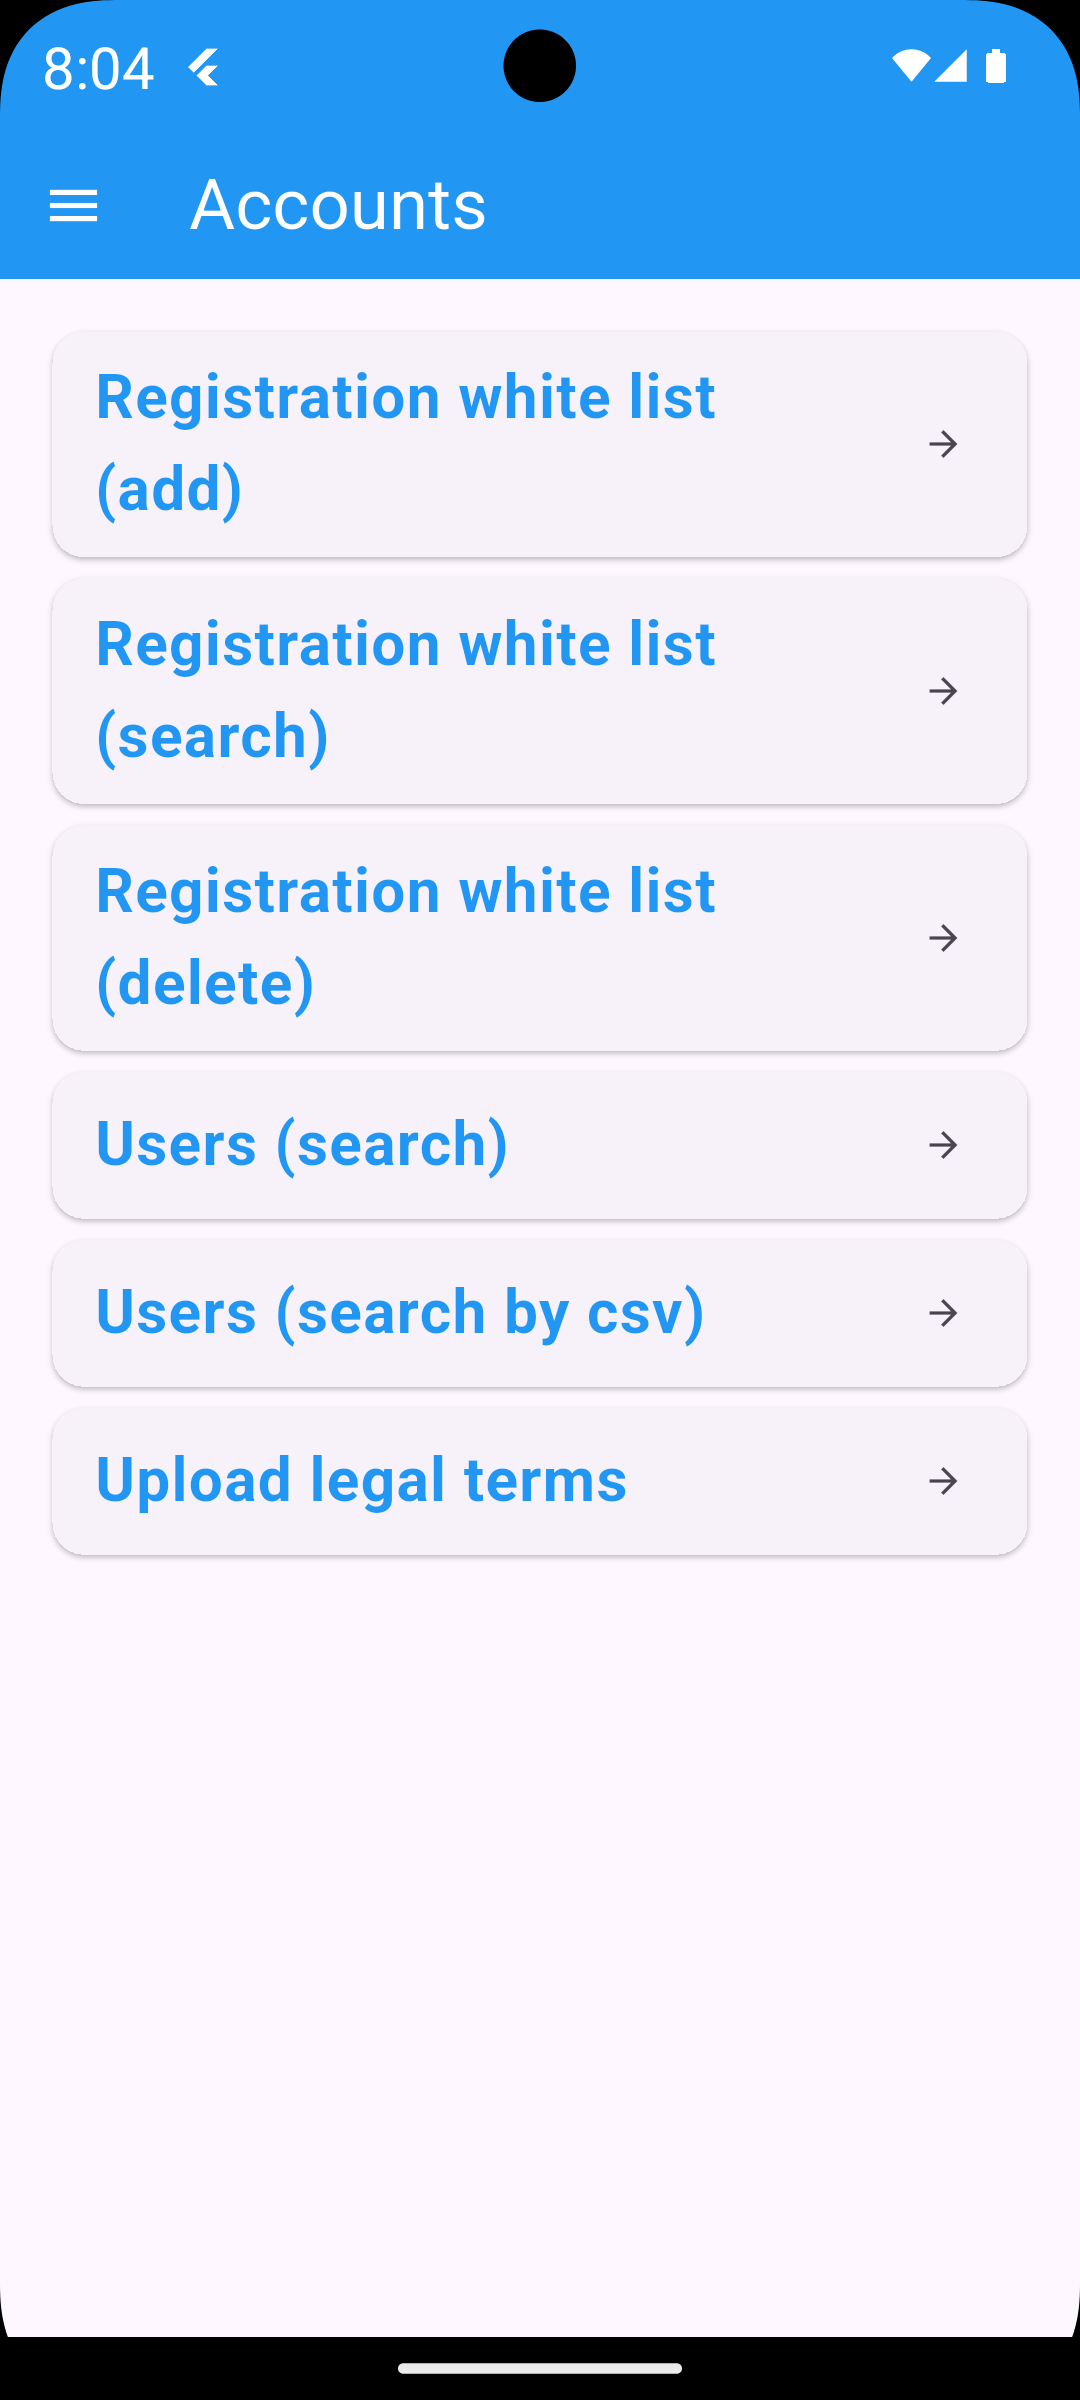
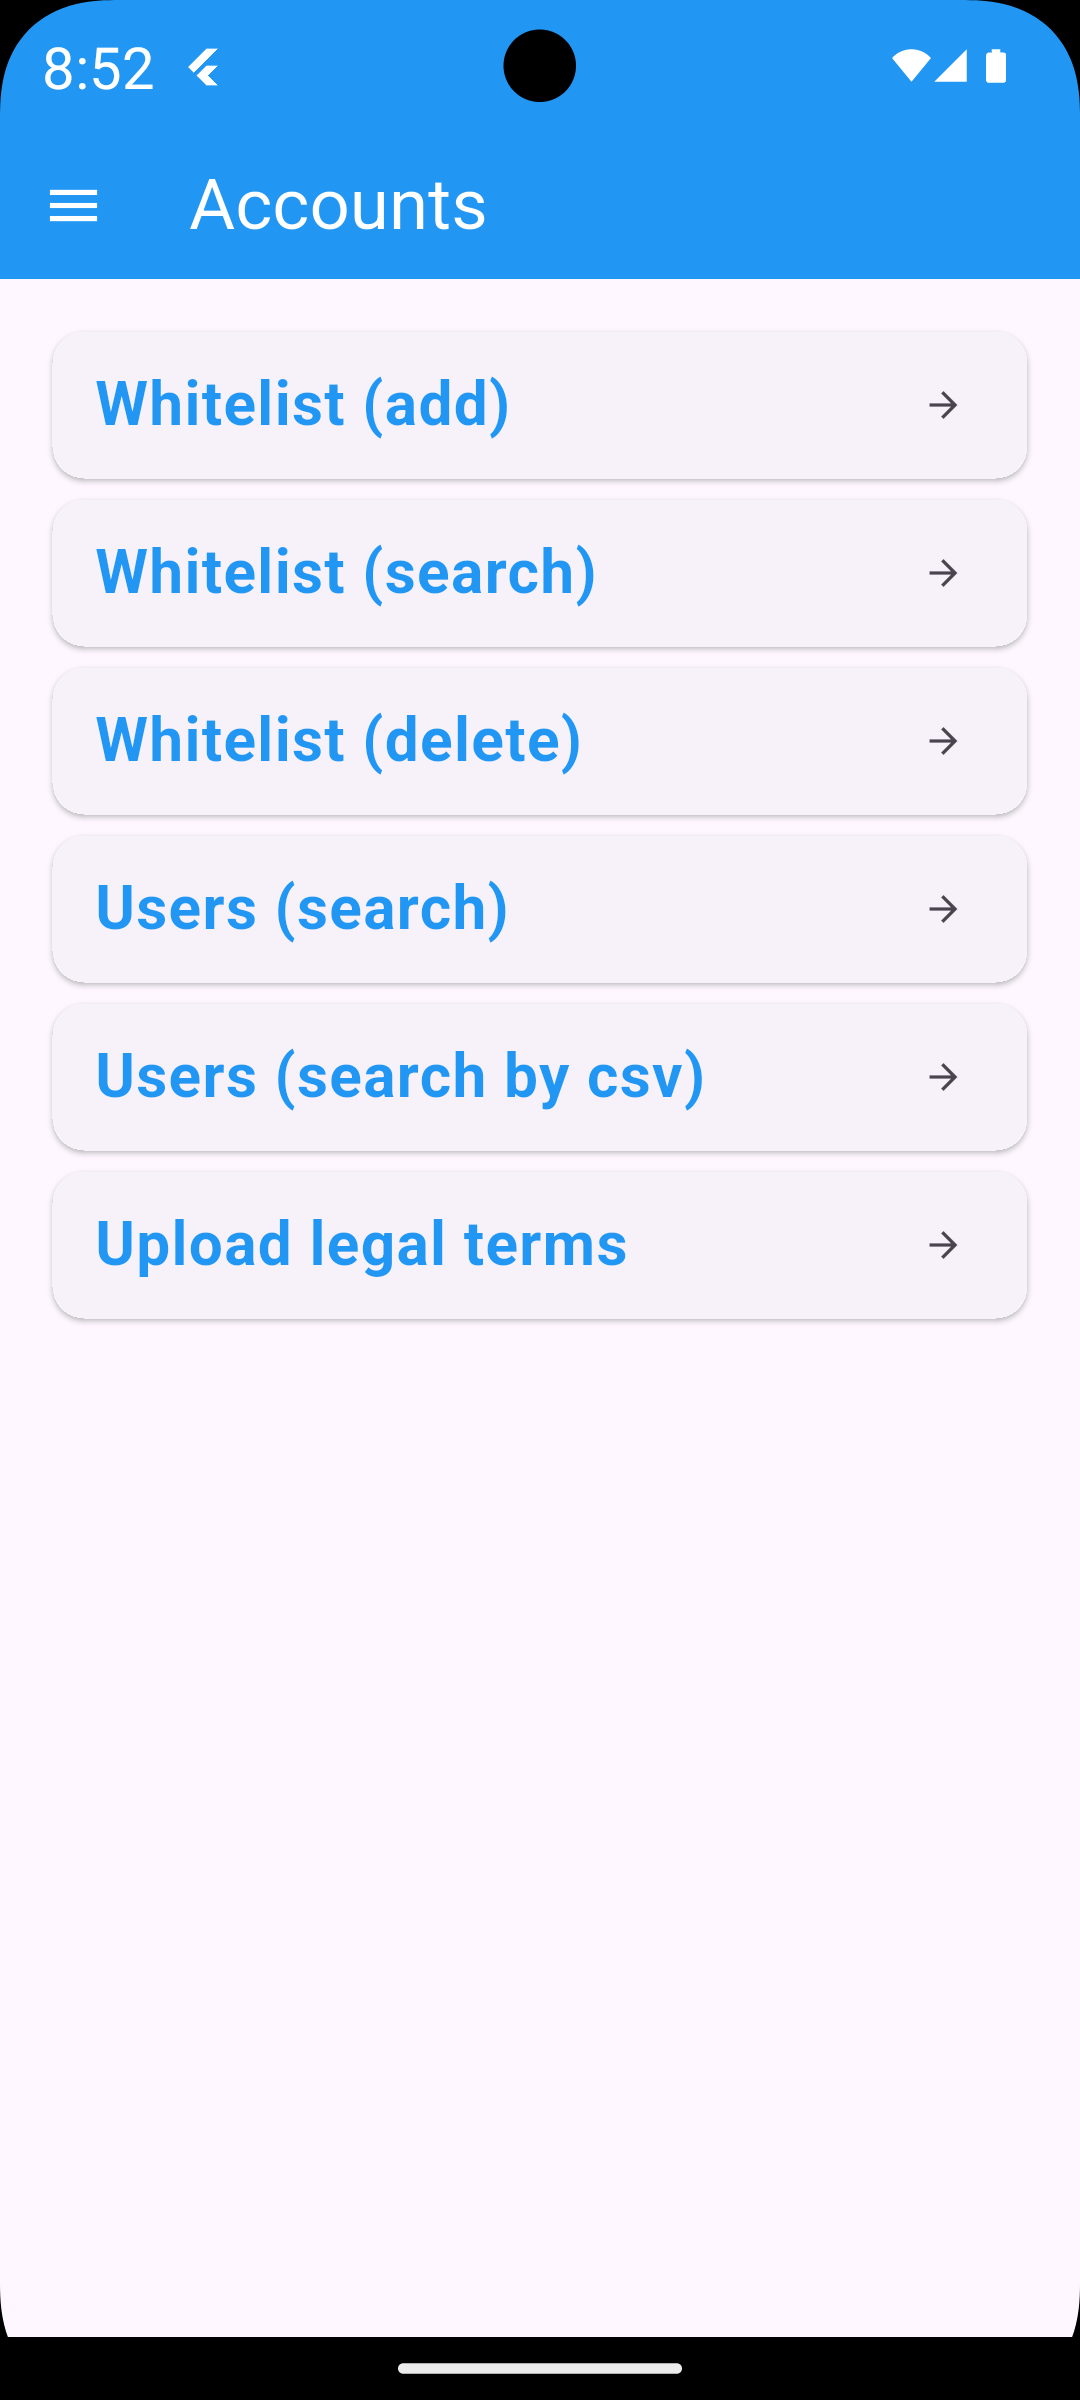
Usage tutorial: search users, promote users

diff --git a/client/flutter_app/lib/pages/whitelist/delete_entries.dart b/client/flutter_app/lib/pages/whitelist/delete_entries.dart
@@ -22,7 +22,10 @@ class WhiteListDeletePage extends StatelessWidget {
   Widget build(BuildContext context) {
     final loc = AppLocalizations.of(context)!;
     return Scaffold(
-      appBar: CAppBar(title: loc.menuWhitelist, showBackButton: true),
+      appBar: CAppBar(
+        title: "${loc.menuWhitelist} (${loc.buttonDelete.toLowerCase()})",
+        showBackButton: true,
+      ),
       body: SafeArea(top: false, child: WhiteListDeleteBody()),
     );
   }

diff --git a/client/flutter_app/lib/pages/whitelist/search_entries.dart b/client/flutter_app/lib/pages/whitelist/search_entries.dart
@@ -24,7 +24,10 @@ class WhiteListSearchPage extends StatelessWidget {
   Widget build(BuildContext context) {
     final loc = AppLocalizations.of(context)!;
     return Scaffold(
-      appBar: CAppBar(title: loc.menuWhitelist, showBackButton: true),
+      appBar: CAppBar(
+        title: "${loc.menuWhitelist} (${loc.buttonSearch.toLowerCase()})",
+        showBackButton: true,
+      ),
       body: SafeArea(top: false, child: WhiteListSearchBody()),
     );
   }

diff --git a/client/flutter_app/lib/pages/whitelist/add_entries.dart b/client/flutter_app/lib/pages/whitelist/add_entries.dart
@@ -26,7 +26,10 @@ class WhiteListAddPage extends StatelessWidget {
   Widget build(BuildContext context) {
     final loc = AppLocalizations.of(context)!;
     return Scaffold(
-      appBar: CAppBar(title: loc.menuWhitelist, showBackButton: true),
+      appBar: CAppBar(
+        title: "${loc.menuWhitelist} (${loc.buttonAdd.toLowerCase()})",
+        showBackButton: true,
+      ),
       body: SafeArea(top: false, child: WhiteListAddBody()),
     );
   }

diff --git a/client/flutter_app/lib/l10n/app_localizations_it.dart b/client/flutter_app/lib/l10n/app_localizations_it.dart
@@ -689,7 +689,7 @@ class AppLocalizationsIt extends AppLocalizations {
   String get menuUsers => 'Utenti';
 
   @override
-  String get menuWhitelist => 'White list per registrazione';
+  String get menuWhitelist => 'Whitelist';
 
   @override
   String get notificationSwipeDownToHide => '⬇ per nascondere';

diff --git a/client/flutter_app/lib/l10n/app_localizations.dart b/client/flutter_app/lib/l10n/app_localizations.dart
@@ -1454,7 +1454,7 @@ abstract class AppLocalizations {
   /// No description provided for @menuWhitelist.
   ///
   /// In en, this message translates to:
-  /// **'Registration white list'**
+  /// **'Whitelist'**
   String get menuWhitelist;
 
   /// No description provided for @notificationSwipeDownToHide.

diff --git a/client/flutter_app/lib/l10n/app_localizations_en.dart b/client/flutter_app/lib/l10n/app_localizations_en.dart
@@ -689,7 +689,7 @@ class AppLocalizationsEn extends AppLocalizations {
   String get menuUsers => 'Users';
 
   @override
-  String get menuWhitelist => 'Registration white list';
+  String get menuWhitelist => 'Whitelist';
 
   @override
   String get notificationSwipeDownToHide => '⬇ to hide';

diff --git a/USAGE.md b/USAGE.md
@@ -300,7 +300,7 @@ The superuser can authorize other "admin" users if desired, or they can authoriz
 
 Admins (or the superuser) must authorize the "chiefs" in addition to the "officers".
 
-NOTE: by "authorize" we mean adding the email address of the user to be authorized to the whitelist.
+NOTE: by "authorize" we mean **adding the email address of the user** to be authorized to the whitelist.
 
 Once authorized, "officers" and "chiefs" will register their accounts as explained at the beginning of the tutorial.
 
@@ -337,7 +337,7 @@ Choose the language ("IT" or "EN") and upload the file. A system page to browse 
 
 ### Add to whitelist
 
-To authorize (insert) email addresses in the whitelist, as we mentioned, there are two ways: single and bulk (using a CSV file)
+To authorize (insert email addresses in the whitelist), as we mentioned, there are two ways: single and bulk (using a CSV file)
 
 <p align="center">
   <img src="client/screenshots/whitelist_add.png" alt="Add entries to whitelist screenshot" width="256">
@@ -351,6 +351,76 @@ NOTE: by leaving the "type" and "role" fields blank, the authorized user or user
 
 NOTE: if you make a mistake when whitelisting entries, please note that as long as users do not register, these entries can be deleted by using the whitelist deletion process, which we will see below.
 
-NOTE: eventually, after users register their account, admins and officers can optionally change the user type or role using the user promotion feature, so don't worry.
+NOTE: eventually, after users register their account, admins and officers can optionally change the user type or role using the user promotion feature.
 
-Tutorial under construction...
+### Search whitelist entries
+
+Administrators can view all whitelisted email addresses in the following ways:
+- Individual addresses, writing the email address in the search field, and clicking to "by email"
+- Email addresses authorized by a certain "officer" (e.g., "officer1@example.com"), writing the authorizer email in the search field and clicking on "by Authorizer".
+- All email addresses
+
+<p align="center">
+  <img src="client/screenshots/whitelist_search.png" alt="Search entries in whitelist screenshot" width="256">
+</p>
+
+Officers can bulk view only the email addresses authorized by them (with "All" button), or they can individually search for any email address (authorized by anyone).
+
+### Delete whitelist entries
+
+Regarding deletion, you can delete whitelisted email addresses (i.e., remove their registration authorization) associated to users who have not yet registered. This is a strict rule: you can only remove the email addresses of users who haven't yet registered their accounts from the whitelist.
+
+<p align="center">
+  <img src="client/screenshots/whitelist_delete.png" alt="Delete entries in whitelist screenshot" width="256">
+</p>
+
+The deletion can be done individually or in bulk. In the latter case, however, not all email addresses will be deleted: only those authorized by the current user (admin or officer) will be deleted, even if the user is an administrator.
+In simple terms, you can delete all email addresses at once, but these only apply to email addresses entered by the current administrator or officer. Each administrator or officer only deletes their own emails in bulk.
+
+In single mode, things are different: administrators can delete any email address individually (authorized by anyone), while officers can only delete their own emails (only those authorized by them).
+
+### Search users
+
+This is the useful form to search for registered users. In the following example, we are searching for all users having role "alpinerescuer".
+
+<p align="center">
+  <img src="client/screenshots/users_search_module.png" alt="Search users module screenshot" width="256">
+</p>
+
+We show the result page.
+
+<p align="center">
+  <img src="client/screenshots/users_search_result.png" alt="Search users result screenshot" width="256">
+</p>
+
+NOTE (about bulk mode): any admin can perform global searches (based on the criteria available in the module) on all registered users, while an officer can mass search only for users authorized by him.
+
+NOTE (about single mode): in single mode, officers can search for a single user, even if they have been authorized by someone else.
+
+### Promote users
+
+Now, pay attention to how promoting users (or "updating" users) works.
+
+Using the search form, we search for all users who meet a certain criteria (for example, all users with the "alpinerescuer" role), and the results are displayed.
+
+Now, if we click "promote" the system remembers the query we entered, and the change we make will be based on these same search criteria. In practice, in this example, we will promote (update) to "volunteer" all users with the alpinerescuer role.
+
+<p align="center">
+  <img src="client/screenshots/users_promote.png" alt="Promote users screenshot" width="256">
+</p>
+
+So, when promoting users, pay attention to the criteria used to search for users to promote, to avoid unwanted promotions.
+
+NOTE: officers cannot promote users who have been authorized by others.
+
+### Search users using a CSV file
+
+Earlier, we saw how to search for registered users using the search form.
+
+You can search for users using a CSV file containing the email addresses you want to search for.
+
+<p align="center">
+  <img src="client/screenshots/users_search_by_csv.png" alt="Search users by CSV screenshot" width="256">
+</p>
+
+Any promotion of found users will apply to these users.
